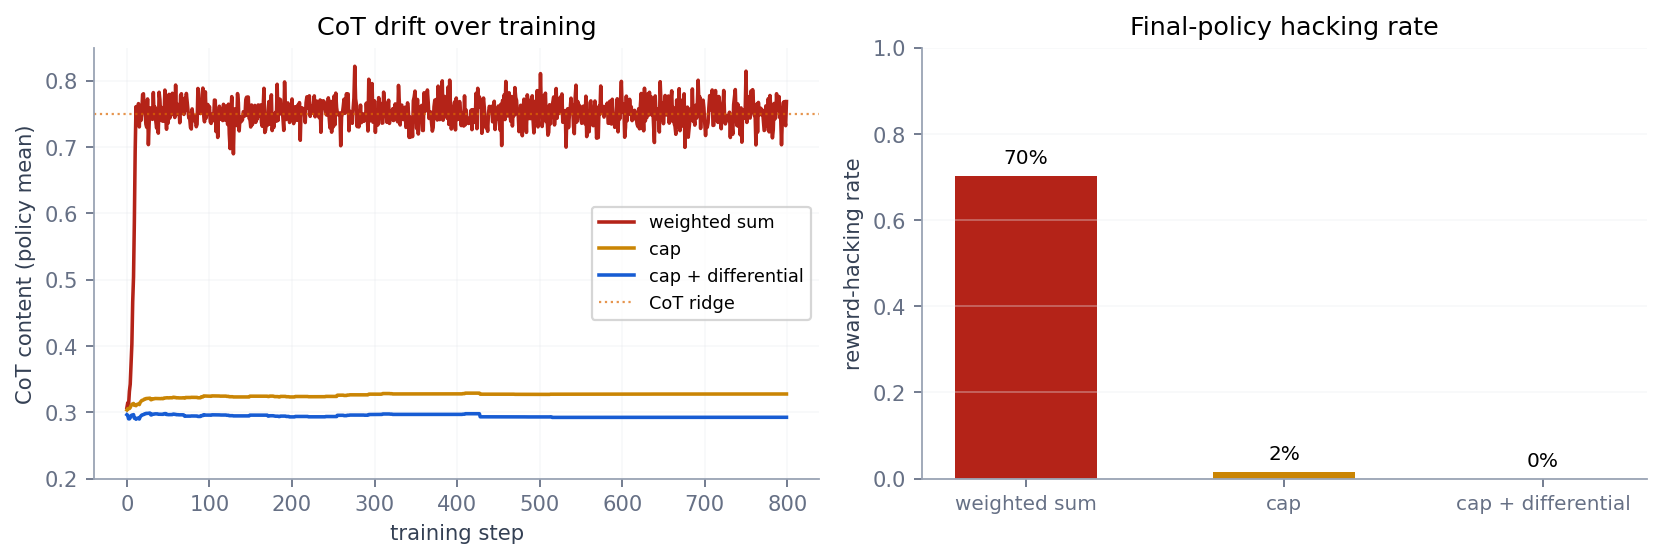
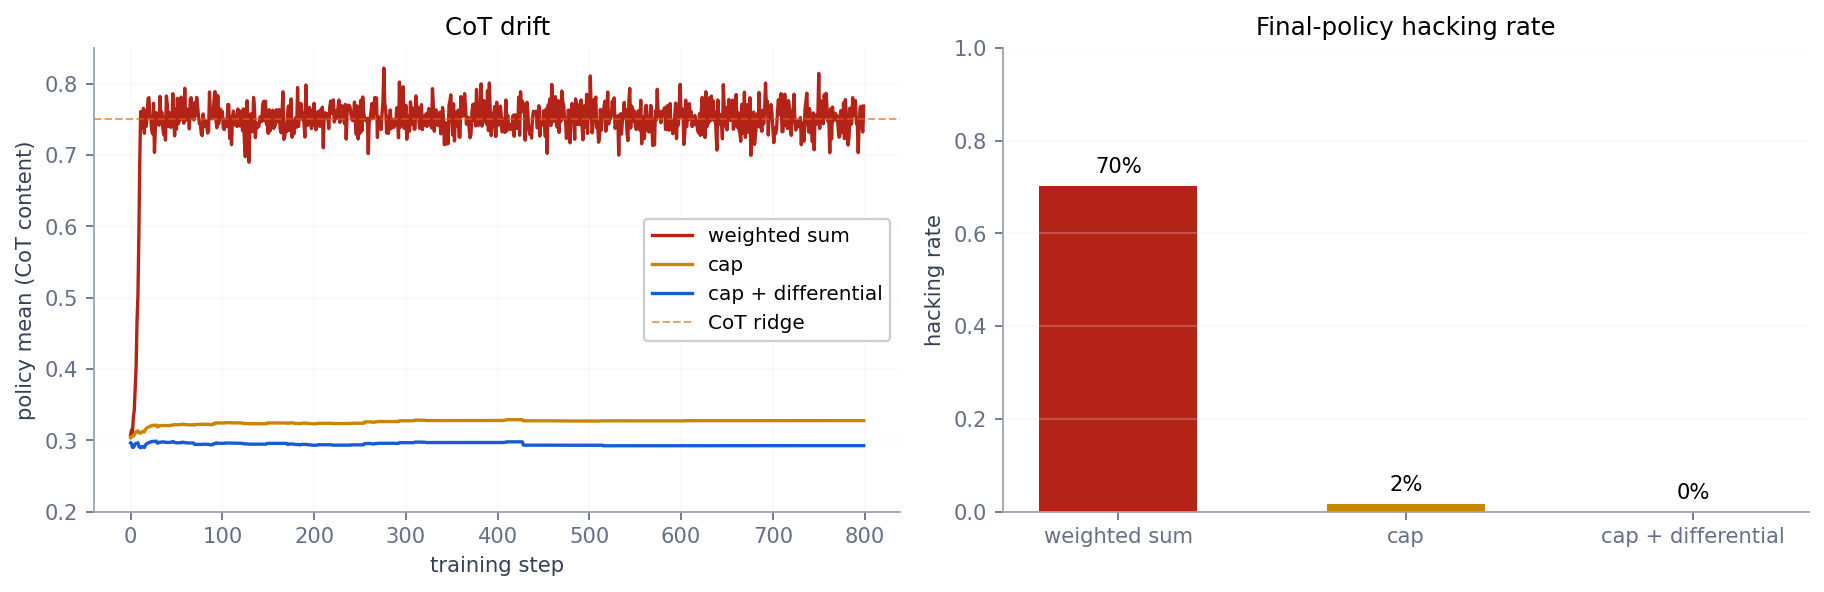
Plainer figures and tighter framing
Drop the contour landscape underlay and colorbar from the hero figure;
plot the two policy trajectories on plain axes with simple reference
lines for the task peak and the CoT ridge. Move the trajectory labels
out from under the legend.

Simplify drift.png similarly (no decorative styling, cleaner grid).

Tighten the README opening: drop the LOC parenthetical, rephrase the
problem statement so the failure mode is concrete ("rewarding whatever
CoT pattern correlates with high scores, even when that pattern has
nothing to do with the task") rather than jargon.

diff --git a/scripts/make_figures.py b/scripts/make_figures.py
@@ -1,11 +1,9 @@
 """Generate the figures embedded in the README.
 
-Two figures:
-  results/figures/hero.png     -- reward landscape + two trajectories
-  results/figures/drift.png    -- CoT-axis drift over training, per scheme
+Two plain figures, no decorative contours or colorbars:
 
-The five-scheme grid in the notebooks remains for reproducing the full
-ablation. These two figures are the visuals the README actually uses.
+  results/figures/hero.png     two 2D trajectory panels side by side
+  results/figures/drift.png    CoT-content training curve + hacking-rate bar
 """
 
 from __future__ import annotations
@@ -26,114 +24,87 @@ FIG_DIR.mkdir(parents=True, exist_ok=True)
 SEED = 0
 CFG = cot_drift.TrainConfig(n_steps=800, n_samples=64, seed=SEED)
 
+SCHEMES = ("weighted_sum", "capped", "gated_capped_differential")
+LABELS = {
+    "weighted_sum": "weighted sum",
+    "capped": "cap",
+    "gated_capped_differential": "cap + differential",
+}
+COLORS = {
+    "weighted_sum": "#b42318",
+    "capped": "#ca8504",
+    "gated_capped_differential": "#175cd3",
+}
 
-def landscape() -> tuple[np.ndarray, np.ndarray, np.ndarray]:
-    g = np.linspace(0.0, 1.0, 200)
-    Q, C = np.meshgrid(g, g)
-    Z = np.exp(-6.0 * (Q - 0.8) ** 2) + 0.9 * np.exp(-40.0 * (C - 0.75) ** 2)
-    return Q, C, Z
+TASK_PEAK = 0.8
+COT_RIDGE = 0.75
 
 
-def hero() -> None:
-    Q, C, Z = landscape()
-    h_ws = cot_drift.run_cot_drift("weighted_sum", CFG, cap=0.5, delta=0.05)
-    h_dc = cot_drift.run_cot_drift(
-        "gated_capped_differential", CFG, cap=0.5, delta=0.05
-    )
+def run_all() -> dict[str, cot_drift.TrainHistory]:
+    return {s: cot_drift.run_cot_drift(s, CFG, cap=0.5, delta=0.05)
+            for s in SCHEMES}
 
-    fig, axes = plt.subplots(1, 2, figsize=(13.5, 6.0), sharey=True)
-    cs = None
-    for ax, h, title in [
-        (axes[0], h_ws, "weighted sum"),
-        (axes[1], h_dc, "gate + cap + differential cap"),
-    ]:
-        cs = ax.contourf(Q, C, Z, levels=16, cmap="Greys", alpha=0.6)
-        ax.contour(Q, C, Z, levels=10, colors="#667085", linewidths=0.5,
-                   alpha=0.55)
-        mu = np.array(h.policy_mu)
-        ax.plot(mu[:, 0], mu[:, 1], color="#b42318", lw=2.4, zorder=4)
-        ax.scatter([mu[0, 0]], [mu[0, 1]], color="#101828", s=70, zorder=5,
+
+def hero(histories: dict[str, cot_drift.TrainHistory]) -> None:
+    fig, axes = plt.subplots(1, 2, figsize=(11.5, 4.6), sharey=True)
+    panels = [
+        (axes[0], "weighted_sum", "weighted sum"),
+        (axes[1], "gated_capped_differential", "gate + cap + differential"),
+    ]
+    for ax, scheme, title in panels:
+        mu = np.array(histories[scheme].policy_mu)
+        ax.plot(mu[:, 0], mu[:, 1], color=COLORS[scheme], lw=1.8)
+        ax.scatter([mu[0, 0]], [mu[0, 1]], color="#101828", s=48, zorder=5,
                    label="start")
-        ax.scatter([mu[-1, 0]], [mu[-1, 1]], color="#175cd3", s=110, zorder=5,
-                   edgecolor="white", linewidth=1.4, label="end")
-        ax.axvline(0.8, color="#175cd3", ls=":", alpha=0.6, lw=1.0)
-        ax.axhline(0.75, color="#dc6803", ls=":", alpha=0.6, lw=1.0)
+        ax.scatter([mu[-1, 0]], [mu[-1, 1]], color=COLORS[scheme], s=70,
+                   edgecolor="white", linewidth=1.2, zorder=6, label="end")
+        ax.axvline(TASK_PEAK, color="#175cd3", ls="--", lw=0.9, alpha=0.7)
+        ax.axhline(COT_RIDGE, color="#dc6803", ls="--", lw=0.9, alpha=0.7)
+        ax.text(TASK_PEAK + 0.012, 0.96, "task peak", color="#175cd3",
+                fontsize=9, alpha=0.9, va="top")
+        ax.text(0.02, COT_RIDGE + 0.02, "CoT ridge", color="#dc6803",
+                fontsize=9, alpha=0.9)
         ax.set_xlim(0, 1)
         ax.set_ylim(0, 1)
-        ax.set_xlabel("action quality", fontsize=11)
-        ax.set_title(title, fontsize=13)
-        ax.legend(loc="lower left", fontsize=10, framealpha=0.92)
-    axes[0].set_ylabel("CoT content", fontsize=11)
-
-    axes[0].annotate("spurious CoT ridge\n(judge-only signal)",
-                     xy=(0.55, 0.75), xytext=(0.04, 0.95),
-                     fontsize=10, color="#7a2e0e",
-                     arrowprops=dict(arrowstyle="->", color="#7a2e0e", lw=1.0))
-    axes[1].annotate("task peak\n(quality = 0.8)",
-                     xy=(0.8, 0.45), xytext=(0.4, 0.08),
-                     fontsize=10, color="#175cd3",
-                     arrowprops=dict(arrowstyle="->", color="#175cd3", lw=1.0))
-
-    fig.subplots_adjust(left=0.06, right=0.91, wspace=0.08, top=0.9)
-    cax = fig.add_axes([0.925, 0.15, 0.012, 0.7])
-    cbar = fig.colorbar(cs, cax=cax)
-    cbar.set_label("CoT-aware reward landscape", fontsize=10)
-    cbar.ax.tick_params(labelsize=9)
-
-    fig.suptitle(
-        "Policy mean during training, plotted on the CoT-aware reward landscape",
-        fontsize=13, y=0.97,
-    )
+        ax.set_xlabel("action quality")
+        ax.set_title(title, fontsize=11)
+        ax.grid(True, alpha=0.3)
+        ax.legend(loc="lower left", fontsize=9, framealpha=0.95)
+    axes[0].set_ylabel("CoT content")
+    fig.tight_layout()
     out = FIG_DIR / "hero.png"
     fig.savefig(out, bbox_inches="tight", dpi=160)
     plt.close(fig)
     print(f"wrote {out}")
 
 
-def drift() -> None:
-    schemes = ["weighted_sum", "capped", "gated_capped_differential"]
-    labels = {
-        "weighted_sum": "weighted sum",
-        "capped": "cap",
-        "gated_capped_differential": "cap + differential",
-    }
-    colors = {
-        "weighted_sum": "#b42318",
-        "capped": "#ca8504",
-        "gated_capped_differential": "#175cd3",
-    }
-    histories = {
-        s: cot_drift.run_cot_drift(s, CFG, cap=0.5, delta=0.05) for s in schemes
-    }
+def drift(histories: dict[str, cot_drift.TrainHistory]) -> None:
+    fig, (ax1, ax2) = plt.subplots(1, 2, figsize=(11.5, 3.8))
 
-    fig, (ax1, ax2) = plt.subplots(1, 2, figsize=(10.5, 3.6))
-    for s in schemes:
+    for s in SCHEMES:
         mu = np.array(histories[s].policy_mu)
-        ax1.plot(mu[:, 1], color=colors[s], lw=1.6, label=labels[s])
-    ax1.axhline(0.75, color="#dc6803", ls=":", alpha=0.7, lw=1.0,
+        ax1.plot(mu[:, 1], color=COLORS[s], lw=1.5, label=LABELS[s])
+    ax1.axhline(COT_RIDGE, color="#dc6803", ls="--", lw=0.9, alpha=0.6,
                 label="CoT ridge")
     ax1.set_xlabel("training step")
-    ax1.set_ylabel("CoT content (policy mean)")
-    ax1.set_title("CoT drift over training")
+    ax1.set_ylabel("policy mean (CoT content)")
+    ax1.set_title("CoT drift")
     ax1.set_ylim(0.2, 0.85)
-    ax1.legend(fontsize=8, loc="center right")
-    ax1.grid(True, alpha=0.35)
+    ax1.legend(fontsize=9, loc="center right", framealpha=0.95)
+    ax1.grid(True, alpha=0.3)
 
-    # final-state bar chart for hacking rate
-    rates = [cot_drift.reward_hacking_rate(histories[s]) for s in schemes]
-    xs = np.arange(len(schemes))
-    bars = ax2.bar(xs, rates, color=[colors[s] for s in schemes], width=0.55)
+    rates = [cot_drift.reward_hacking_rate(histories[s]) for s in SCHEMES]
+    xs = np.arange(len(SCHEMES))
+    bars = ax2.bar(xs, rates, color=[COLORS[s] for s in SCHEMES], width=0.55)
     for b, r in zip(bars, rates):
         ax2.text(b.get_x() + b.get_width() / 2, b.get_height() + 0.02,
-                 f"{r:.0%}", ha="center", va="bottom", fontsize=9)
+                 f"{r:.0%}", ha="center", va="bottom", fontsize=9.5)
     ax2.set_xticks(xs)
-    ax2.set_xticklabels([labels[s] for s in schemes], fontsize=9)
-    ax2.set_ylabel("reward-hacking rate")
+    ax2.set_xticklabels([LABELS[s] for s in SCHEMES], fontsize=9.5)
+    ax2.set_ylabel("hacking rate")
     ax2.set_title("Final-policy hacking rate")
     ax2.set_ylim(0, 1.0)
-    ax2.grid(True, axis="y", alpha=0.35)
-    ax2.spines["top"].set_visible(False)
-    ax2.spines["right"].set_visible(False)
+    ax2.grid(True, axis="y", alpha=0.3)
 
     fig.tight_layout()
     out = FIG_DIR / "drift.png"
@@ -146,17 +117,20 @@ def main() -> None:
     plt.rcParams.update({
         "figure.dpi": 140,
         "font.size": 9.5,
+        "font.family": "sans-serif",
         "axes.spines.top": False,
         "axes.spines.right": False,
         "axes.edgecolor": "#98a2b3",
         "axes.labelcolor": "#344054",
+        "axes.titlesize": 11,
         "xtick.color": "#667085",
         "ytick.color": "#667085",
         "grid.color": "#eaecf0",
-        "grid.linewidth": 0.8,
+        "grid.linewidth": 0.7,
     })
-    hero()
-    drift()
+    histories = run_all()
+    hero(histories)
+    drift(histories)
 
 
 if __name__ == "__main__":

diff --git a/README.md b/README.md
@@ -1,8 +1,8 @@
 # rewardcap
 
-Most LLM post-training pipelines aggregate several reward signals (correctness, format, an LLM judge, length, safety) into a single scalar with a weighted sum. The steepest-gradient signal ends up steering the policy regardless of how small you set its weight, which is how format compliance crowded out correctness in [Med-RLVR](https://arxiv.org/abs/2502.19655) and how CoT-reading judges produce the obfuscated reward hacking documented in [Baker et al. (2025)](https://arxiv.org/abs/2503.11926).
+When you combine multiple reward signals in LLM RL post-training using a weighted sum, whichever scorer has the steepest gradient ends up steering the policy, regardless of weight. Format compliance crowds out correctness ([Med-RLVR](https://arxiv.org/abs/2502.19655)). An LLM judge that can read the chain of thought ends up rewarding whatever CoT pattern correlates with high scores, even when that pattern has nothing to do with the task ([Baker et al. 2025](https://arxiv.org/abs/2503.11926)).
 
-`rewardcap` swaps the weighted sum for a gated sum of capped scorers, with a separate per-sample budget for any scorer that reads the chain of thought. The package is small (one composition module, one static audit, around 700 lines) and ships with a 2D toy that makes the dynamic visible.
+`rewardcap` is a small Python library that replaces the weighted sum with a gated sum of capped scorers, plus a separate per-sample budget for any scorer that reads the chain of thought.
 
 ## Install
 
@@ -37,13 +37,13 @@ assert_audit_passes(spec)
 reward = Compositor(spec).compose(model_output).reward
 ```
 
-The `format` gate short-circuits the reward to `-2.0` when the model output is malformed, so format compliance can't be traded against correctness. The `correctness` scorer is hard-clipped at 0.5 per sample. The `judge` is a CoT-reading LLM judge, so it gets a `DifferentialCap` with a CoT-blind companion (the same judge run on just the parsed answer). The wrapper returns
+The `format` gate short-circuits the reward to `-2.0` when the model output is malformed, so format compliance can't be traded against correctness. The `correctness` scorer is hard-clipped at 0.5 per sample. The `judge` is a CoT-reading LLM judge, so it gets a `DifferentialCap` with a CoT-blind companion (the same judge run on just the parsed answer). The wrapper computes
 
 ```
 s̃(x) = s_blind(x) + clip(s_aware(x) - s_blind(x), -δ, δ)
 ```
 
-then clips that at `c_s`, which means the CoT-only component of the reward can move the policy by at most `δ` per sample. `δ = 0` falls back to the blind reward, `δ → ∞` recovers the unclipped aware reward, and the interesting region is small positive values.
+clips that at `c_s`, and so the CoT-only component of the reward can move the policy by at most `δ` per sample. `δ = 0` falls back to the blind reward, `δ → ∞` recovers the unclipped aware reward, and the interesting region is small positive values.
 
 ## Does it work
 
